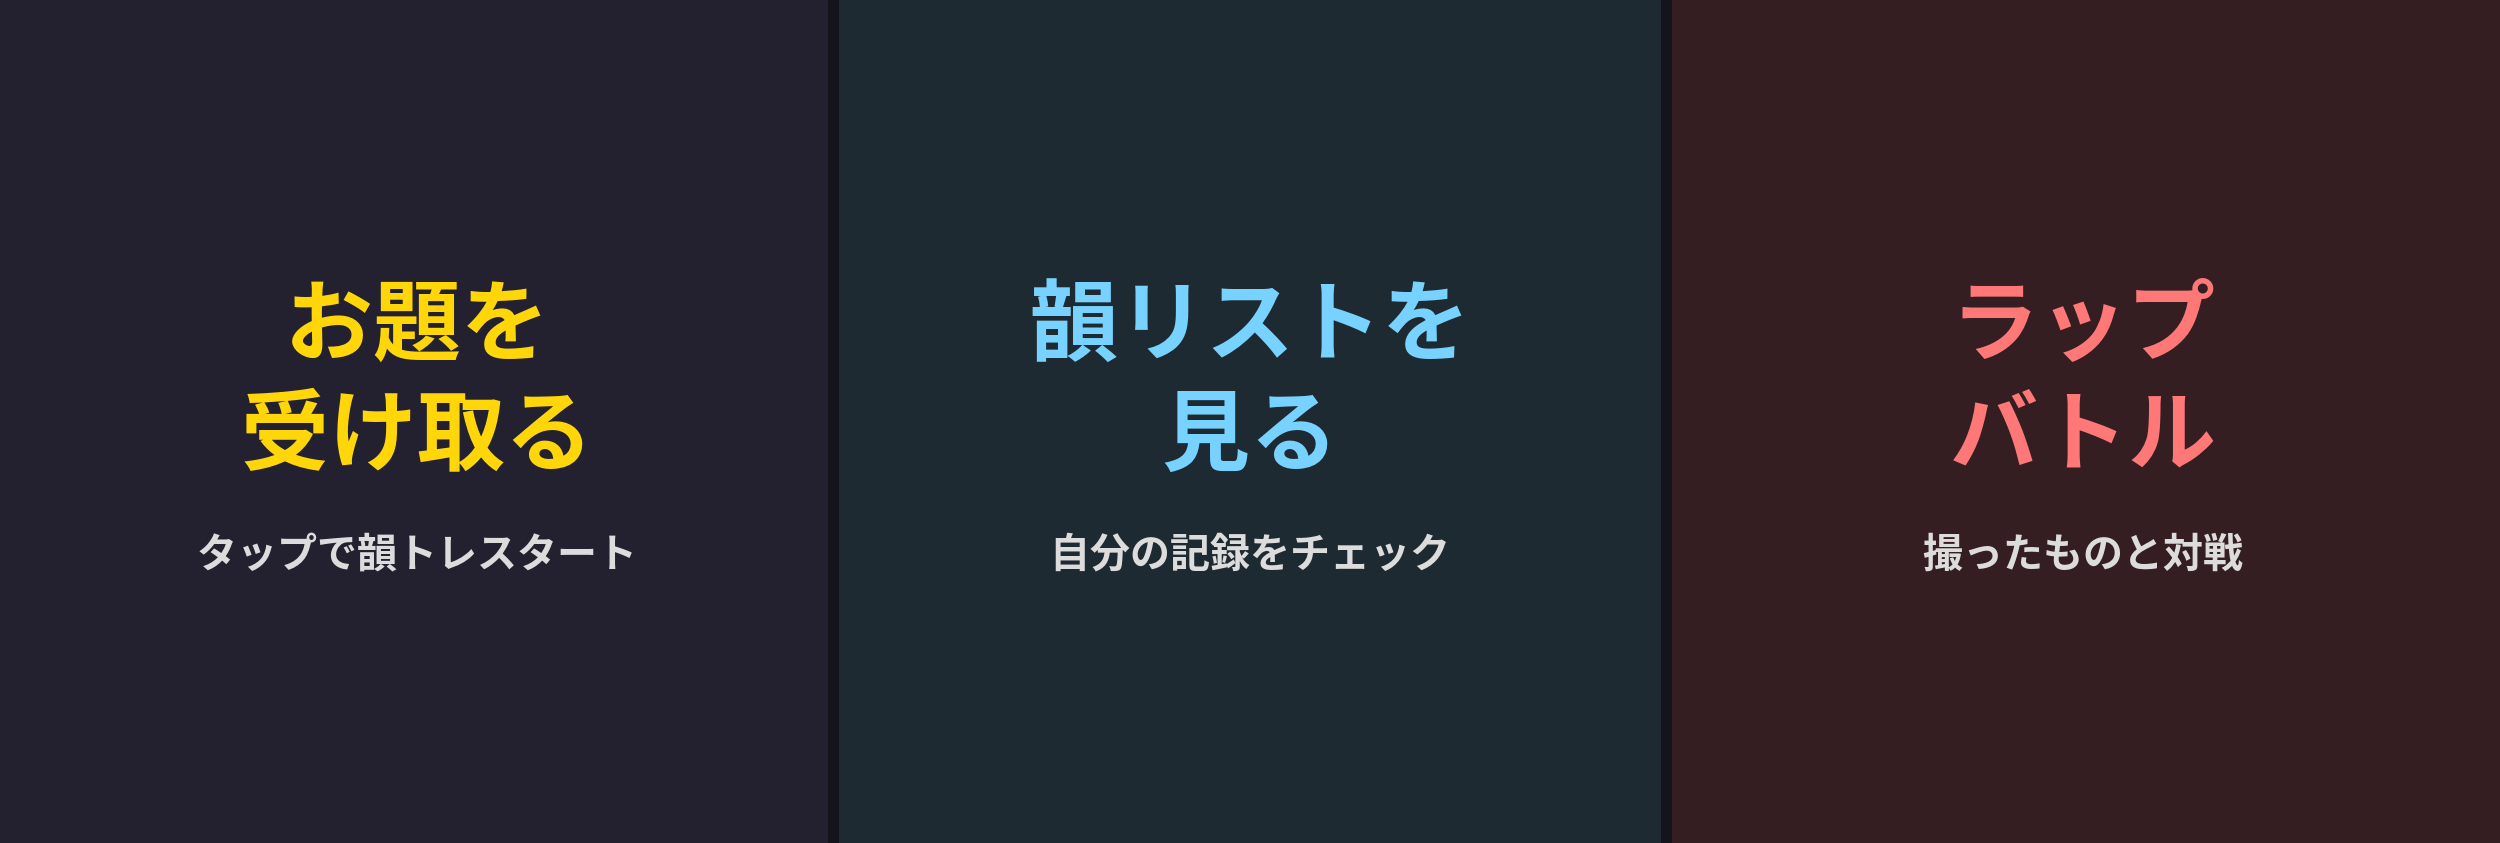
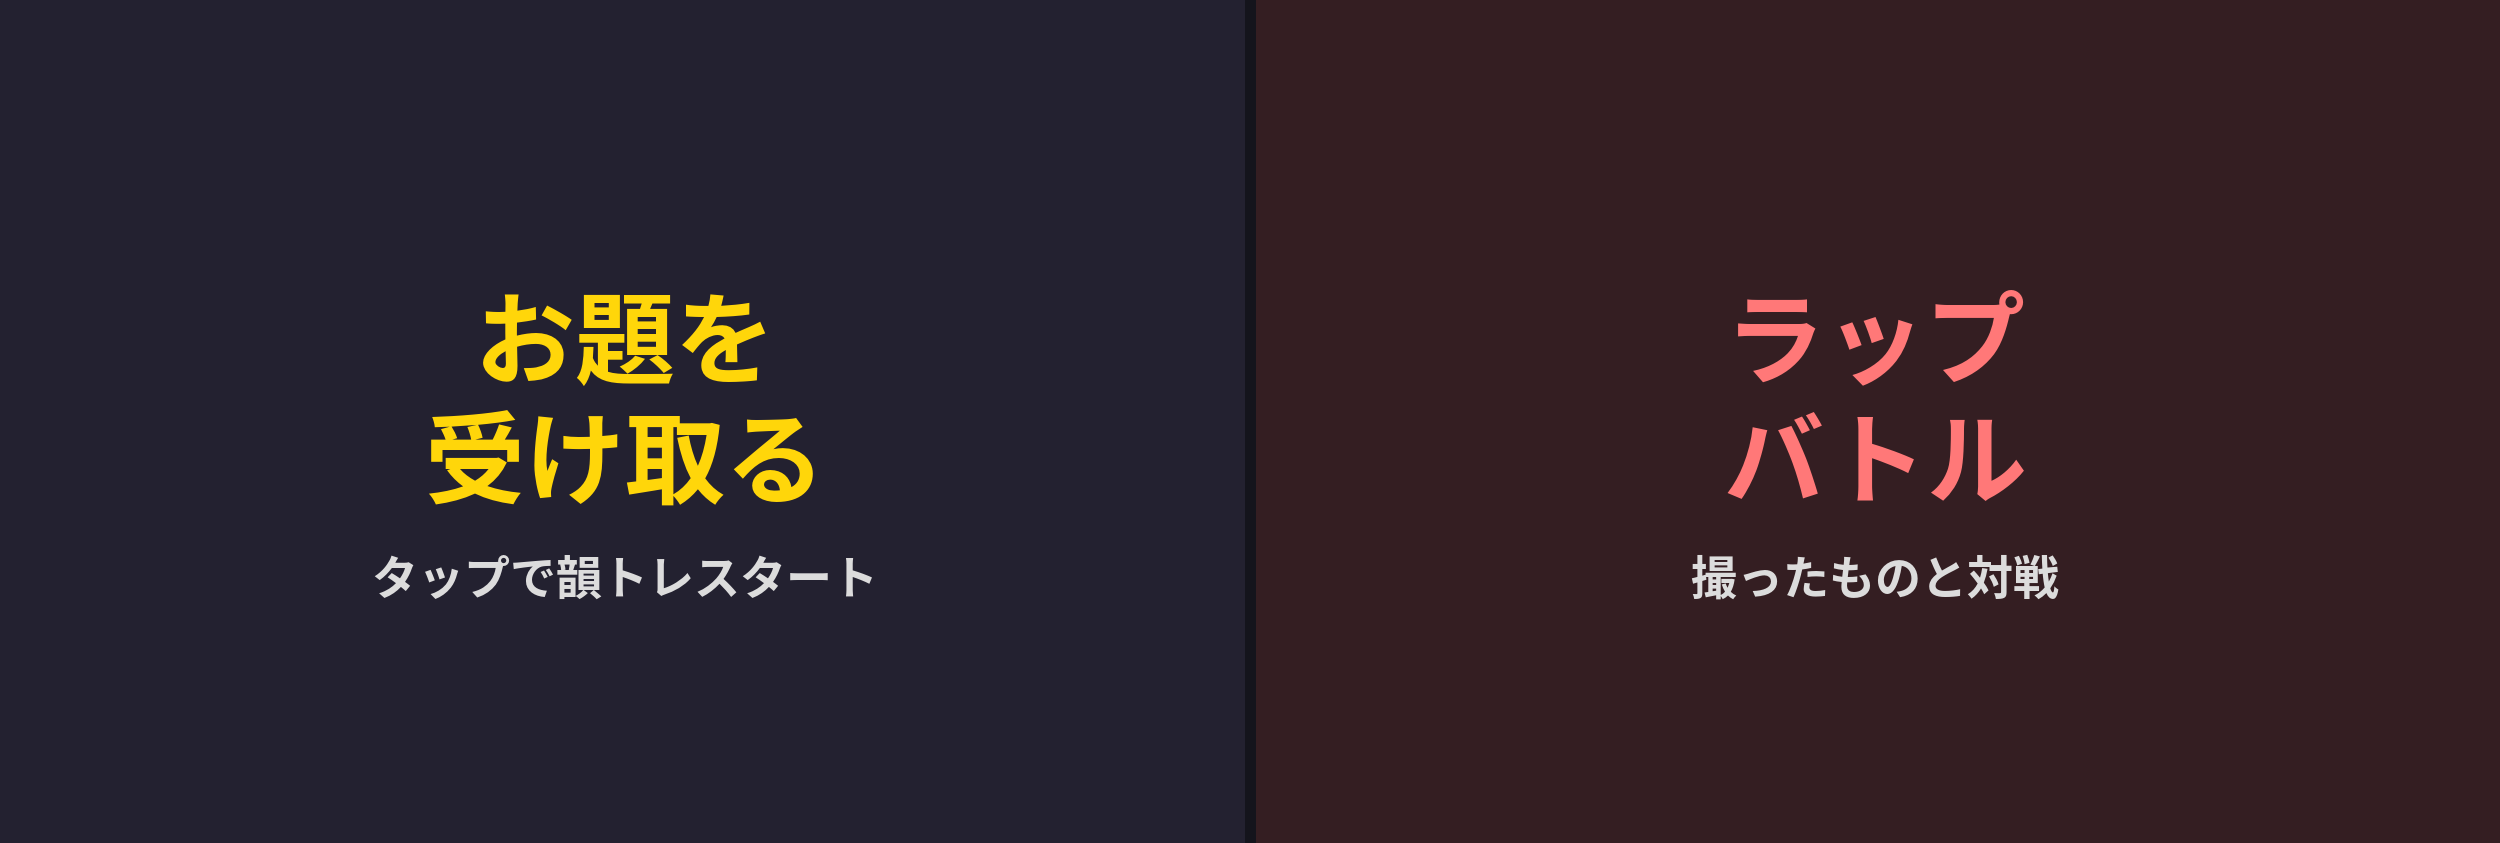
韻リストボタンと17時の韻テスト自動配信を停止、メニューを2ボタンに

diff --git a/index.js b/index.js
@@ -11,6 +11,7 @@
 //      ○が4つ貯まったら結果リストを表示してそのラウンドは終了
 //   5. リッチメニューの「韻リストを見る」で、母音ごとにまとめた自分の韻リストをFlex Messageで確認できる
 //      (お題として出た単語は太字、重複は1つにまとめる)
+//   ※ 2026/10/5: 「韻リストを見る」ボタンと、奇数日17時の韻テスト自動配信は停止(下の5・6は旧仕様)。
 //   6. 奇数日の17時に「韻テスト」を配信。自分の韻リストの中から母音グループを1つランダムに選び、
 //      そのお題を表示。お題以外の単語をすべて思い出して送るまで終わらない(○/×判定)。
 //   7. お題ゲーム・韻テストともに、最初の回答から30秒経過すると自動的に締め切る。
@@ -77,7 +78,7 @@ if (!hasUpstash) {
 }
 
 const RICHMENU_IMAGE_PATH = path.join(__dirname, 'richmenu.png');
-const RICHMENU_NAME = 'rhyme-theme-menu-v3';
+const RICHMENU_NAME = 'rhyme-theme-menu-v4';
 // リッチメニューのボタンをタップすると、このテキストがメッセージとして送られてくる
 const THEME_TRIGGER_TEXT = '今日のお題を受け取る';
 const RHYME_LIST_TRIGGER_TEXT = '韻リストを見る';
@@ -880,20 +881,8 @@ cron.schedule(
   { timezone: 'Asia/Tokyo' }
 );
 
-// 奇数日の17時だけ、韻テストを配信する
-cron.schedule(
-  '0 17 * * *',
-  () => {
-    const day = getJstDayOfMonth();
-    if (day % 2 === 1) {
-      console.log(`奇数日(${day}日)の17時、韻テストを配信します`);
-      sendRhymeTestToAll();
-    } else {
-      console.log(`偶数日(${day}日)の17時なので韻テストの配信はスキップします`);
-    }
-  },
-  { timezone: 'Asia/Tokyo' }
-);
+// (2026/10/5 停止) 奇数日17時の韻テスト自動配信は廃止。
+// 手動で送りたい場合は POST /send-rhyme-test?token=... を使う。
 
 // --- LINE Webhook ---
 app.post('/webhook', middleware(config), async (req, res) => {
@@ -988,11 +977,6 @@ async function handleEvent(event) {
       await saveSession(userId, newSessionWithTheme(theme));
       await logActivity({ type: 'theme_sent', userId, theme: theme.word, source: 'manual' });
       return client.replyMessage(event.replyToken, { type: 'text', text: formatThemeMessage(theme) });
-    }
-
-    if (text === RHYME_LIST_TRIGGER_TEXT) {
-      const groups = await buildRhymeGroups(userId);
-      return client.replyMessage(event.replyToken, buildRhymeListFlexMessage(groups));
     }
 
     // リッチメニュー「ラップバトル」: カメラ起動ボタンを出す(実際のバトルは写真が届いた時点で始まる)
@@ -1163,6 +1147,7 @@ app.get('/setup-richmenu', async (req, res) => {
     for (const menu of existing) {
       if (
         menu.name === RICHMENU_NAME ||
+        menu.name === 'rhyme-theme-menu-v3' ||
         menu.name === 'rhyme-theme-menu-v2' ||
         menu.name === 'rhyme-theme-menu' ||
         menu.name === 'daily-word-menu'
@@ -1179,15 +1164,11 @@ app.get('/setup-richmenu', async (req, res) => {
       chatBarText: 'メニュー',
       areas: [
         {
-          bounds: { x: 0, y: 0, width: 833, height: 843 },
+          bounds: { x: 0, y: 0, width: 1250, height: 843 },
           action: { type: 'message', label: 'お題を受け取る', text: THEME_TRIGGER_TEXT },
         },
         {
-          bounds: { x: 833, y: 0, width: 834, height: 843 },
-          action: { type: 'message', label: '韻リストを見る', text: RHYME_LIST_TRIGGER_TEXT },
-        },
-        {
-          bounds: { x: 1667, y: 0, width: 833, height: 843 },
+          bounds: { x: 1250, y: 0, width: 1250, height: 843 },
           action: { type: 'message', label: 'ラップバトル', text: BATTLE_TRIGGER_TEXT },
         },
       ],

diff --git a/make_richmenu.py b/make_richmenu.py
@@ -1,24 +1,18 @@
 from PIL import Image, ImageDraw, ImageFont
 import os
 
-# リッチメニュー画像(3分割): お題を受け取る / 韻リストを見る / ラップバトル
+# リッチメニュー画像(2分割): お題を受け取る / ラップバトル
 W, H = 2500, 843
 img = Image.new("RGB", (W, H), (20, 20, 28))
 draw = ImageDraw.Draw(img)
 
 font_path = "/usr/share/fonts/opentype/noto/NotoSansCJK-Bold.ttc"
-title_font = ImageFont.truetype(font_path, 88)
-sub_font = ImageFont.truetype(font_path, 40)
+title_font = ImageFont.truetype(font_path, 100)
+sub_font = ImageFont.truetype(font_path, 46)
 
 GAP = 6
-COL = W / 3
-cols = [
-    ((0, 0, COL - GAP, H), (35, 33, 48)),
-    ((COL + GAP, 0, 2 * COL - GAP, H), (30, 42, 50)),
-    ((2 * COL + GAP, 0, W, H), (52, 30, 34)),
-]
-for box, fill in cols:
-    draw.rectangle(box, fill=fill)
+draw.rectangle((0, 0, W // 2 - GAP, H), fill=(35, 33, 48))
+draw.rectangle((W // 2 + GAP, 0, W, H), fill=(52, 30, 34))
 
 
 def center_text(d, text, font, cx, y, fill):
@@ -27,19 +21,16 @@ def center_text(d, text, font, cx, y, fill):
     d.text((cx - w / 2, y), text, font=font, fill=fill)
 
 
-cx = [COL / 2, COL * 1.5, COL * 2.5]
+left_cx = W // 4
+right_cx = 3 * W // 4
 
-center_text(draw, "お題を", title_font, cx[0], 250, (255, 214, 10))
-center_text(draw, "受け取る", title_font, cx[0], 360, (255, 214, 10))
-center_text(draw, "タップで韻トレスタート", sub_font, cx[0], 520, (220, 220, 220))
+center_text(draw, "お題を", title_font, left_cx, 260, (255, 214, 10))
+center_text(draw, "受け取る", title_font, left_cx, 380, (255, 214, 10))
+center_text(draw, "タップで韻トレスタート", sub_font, left_cx, 540, (220, 220, 220))
 
-center_text(draw, "韻リストを", title_font, cx[1], 250, (120, 210, 255))
-center_text(draw, "見る", title_font, cx[1], 360, (120, 210, 255))
-center_text(draw, "自分の記録をチェック", sub_font, cx[1], 520, (220, 220, 220))
-
-center_text(draw, "ラップ", title_font, cx[2], 250, (255, 120, 120))
-center_text(draw, "バトル", title_font, cx[2], 360, (255, 120, 120))
-center_text(draw, "撮ったものと対戦", sub_font, cx[2], 520, (220, 220, 220))
+center_text(draw, "ラップ", title_font, right_cx, 260, (255, 120, 120))
+center_text(draw, "バトル", title_font, right_cx, 380, (255, 120, 120))
+center_text(draw, "撮ったものと対戦", sub_font, right_cx, 540, (220, 220, 220))
 
 out = os.path.join(os.path.dirname(os.path.abspath(__file__)), "richmenu.png")
 img.save(out)

diff --git a/README.md b/README.md
@@ -2,6 +2,8 @@
 
 ラップの「韻」を練習するためのLINE Botです。毎朝9時(日本時間)に、友だち登録した一人ひとりへ個別に「お題」の単語を送ります。ユーザーがそれに韻を踏む単語を返すと、母音が一致しているかBotが判定してくれます。
 
+> **2026/10/5 変更**: リッチメニューは「お題を受け取る」「ラップバトル」の2つに変更。「韻リストを見る」ボタンと、奇数日17時の韻テスト自動配信は停止した(記録データ自体は残っている)。
+
 ## ゲームの流れ
 
 1. Botが「お題」の単語を送る(例: 「愛(あい) / 母音: ai」)。
